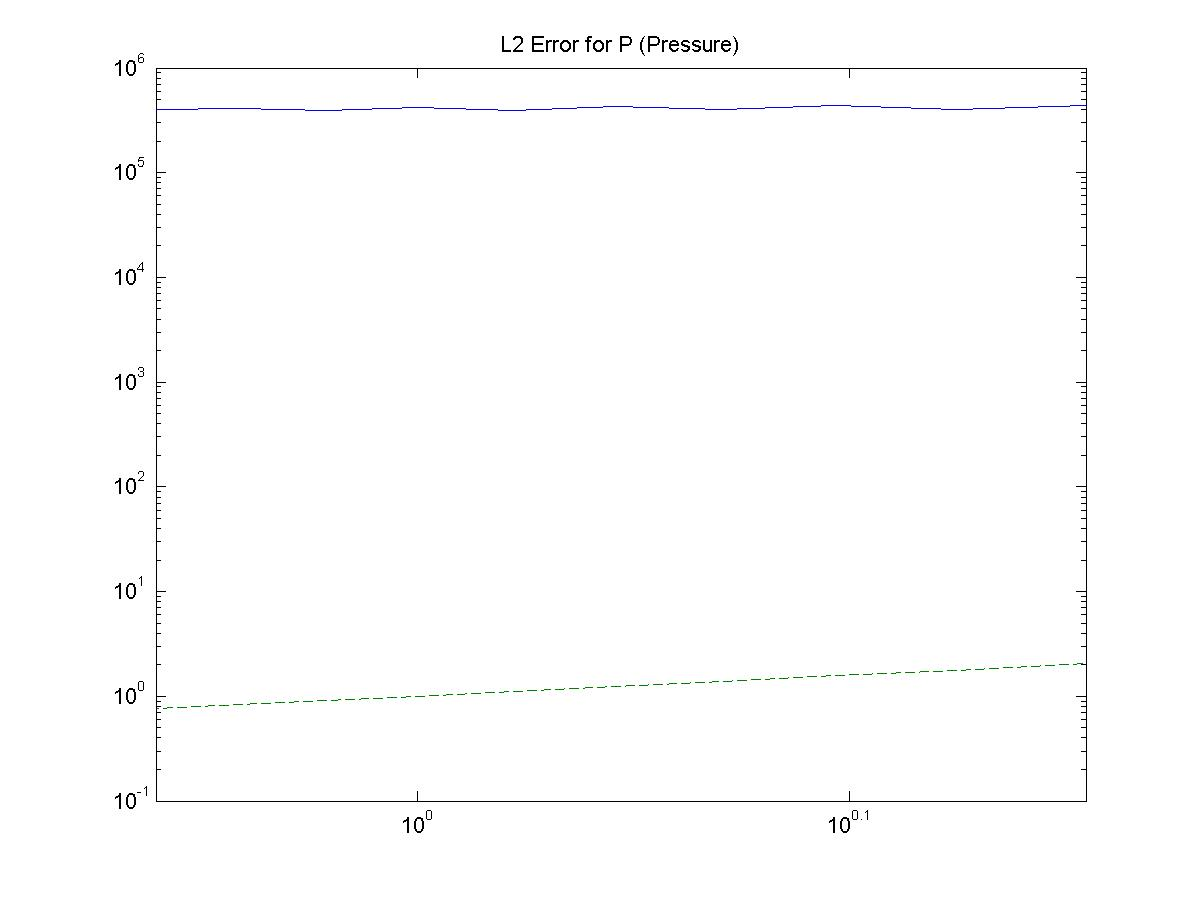
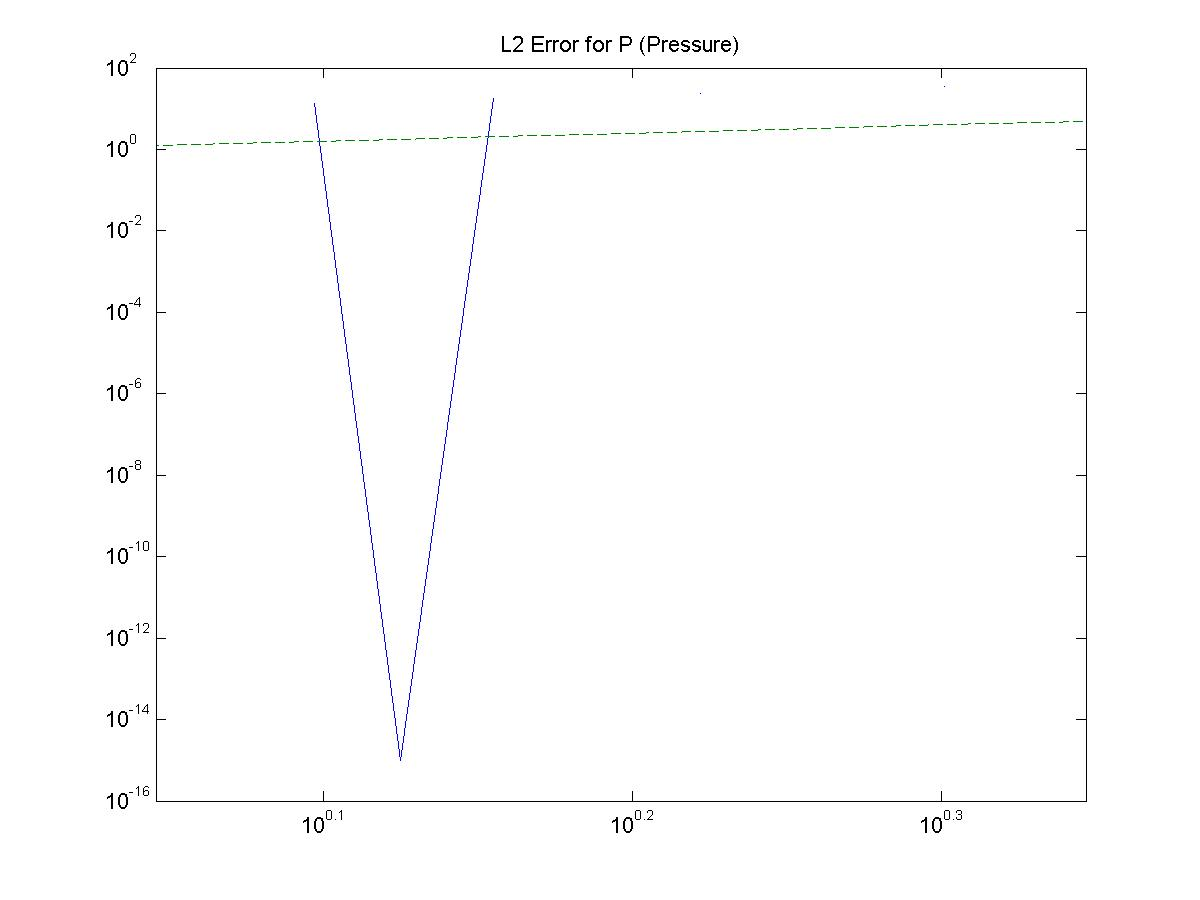
1/21
Applied BC's on u by mirroring with u*.  Changed the forcing function.

diff --git a/Main.m b/Main.m
@@ -3,10 +3,8 @@ close all;
 clc;
 
 animate = 1;
+checkL2E = 0;
 
-%2D Stokes
-
-%%%%%%%%%%%%%%%%%%%%%%%%%%%%%%%%%%%%%%%%%%%%%%%%%%%%%%%%%%%%%%%%%%%%%%%%%%
 %Pressure Differential (Right side)
 p0 = 0;
 
@@ -18,22 +16,38 @@ g = 0;
 
 height = 20;
 width = 20;
-R = .4;
-L = 1;
+R = 2;
+L = 10;
 %T = .25;
 timeSteps = 5;
+
+quivRes = 1;
 %%%%%%%%%%%%%%%%%%%%%%%%%%%%%%%%%%%%%%%%%%%%%%%%%%%%%%%%%%%%%%%%%%%%%%%%%%
 
 
 %%%%%%%%%%%%%%%%%%%%%%%%%%%%%%%%%%%%%%%%%%%%%%%%%%%%%%%%%%%%%%%%%%%%%%%%%%
-%Compute Stokes2DGStar with a high discretization and use it as the "analytical" solution
+%Compute Stokes2DPCwith a high discretization and use it as the "analytical" solution
 %%%%%%%%%%%%%%%%%%%%%%%%%%%%%%%%%%%%%%%%%%%%%%%%%%%%%%%%%%%%%%%%%%%%%%%%%%
-num = 50;
+num = 40;
 tic;
 [P U V X Y NUMXCELLS NUMYCELLS] = Stokes2DPC(g, num, p0, mu, height, width, R,L, timeSteps, 0);
 toc;
 
-quivRes = 1;
+% i=2;
+% figure(6);
+% hold on;
+% quiver(X(1:quivRes:end,1:quivRes:end),Y(1:quivRes:end,1:quivRes:end),U(1:quivRes:end,1:quivRes:end, i),V(1:quivRes:end,1:quivRes:end, i));
+% z = (X - (R + L)).^2 + Y.^2 - R^2;
+% contour(X,Y,z,[0,0]);
+% streamline(X,Y,U(:,:,i),V(:,:,i),.1,1);
+% streamline(X,Y,U(:,:,i),V(:,:,i),.1,-1);
+% % streamline(X,Y,U,V,-width / 2, 0.1);
+% % streamline(X,Y,U,V,-width / 2, -0.1);
+% drawnow;
+% hold off;
+
+
+%surf(X,Y,U(:,:,2));
 
 %pcolor?
 %shading interp
@@ -50,8 +64,8 @@ if(animate == 1)
         z = (X - (R + L)).^2 + Y.^2 - R^2;
         contour(X,Y,z,[0,0]);
 
-        streamline(X,Y,U(:,:,i),V(:,:,i),.1,.1);
-        streamline(X,Y,U(:,:,i),V(:,:,i),.1,-.1);
+        streamline(X,Y,U(:,:,i),V(:,:,i),.1,1);
+        streamline(X,Y,U(:,:,i),V(:,:,i),.1,-1);
         % streamline(X,Y,U,V,-width / 2, 0.1);
         % streamline(X,Y,U,V,-width / 2, -0.1);
         drawnow;
@@ -61,66 +75,67 @@ if(animate == 1)
 end
 
 
-%Compute the L2E with 20 different grid spacing values
-testPoints = (num/2 - 10): (num/2);
+if checkL2E
 
-L2EP = zeros(testPoints(end),1);
-L2EU = zeros(testPoints(end),1);
-L2EV = zeros(testPoints(end),1);
-dx = zeros(testPoints(end),1);
+    %Compute the L2E with 20 different grid spacing values
+    testPoints = (num/2 - 10): (num/2);
 
-% Compute the L2 error
-%2D: || u(x,y) || = sqrt( 1/M^2 sum_{j=1}^M sum_{k=1]^M u_{j,k}^2 }
-for i = 1:10
-    testPoints(i)
-    tic;
-    [ p u v x y numXCells numYCells dx(i)] = Stokes2DPC(g, testPoints(i), p0, mu, height, width, R, L, timeSteps, 0);
-    toc;
-    
-    %d(i) = (1-0) / (i - 1);
-    
-    for j=1:numXCells
-        for k = 1:numYCells
-            % interp2(X,Y,F,x,y) interpolates F(X,Y) at x,y
-            % Don't Want:  X is numx1 vector, Y is a numx1, P is a num^2x1 vector
-            % Want: X is numxnum array, Y is numxnum array, P is a numxnum array
-            L2EP(i) = L2EP(i) + (p(k,j,timeSteps) - interp2(X,Y,P(:,:,timeSteps),x(k,j),y(k,j), 'cubic'))^2;
-            L2EU(i) = L2EU(i) + (u(k,j,timeSteps) - interp2(X,Y,U(:,:,timeSteps),x(k,j),y(k,j), 'cubic'))^2;
-            L2EV(i) = L2EV(i) + (v(k,j,timeSteps) - interp2(X,Y,V(:,:,timeSteps),x(k,j),y(k,j), 'cubic'))^2;
-        end
-    end   
-    L2EP(i) = sqrt(L2EP(i) / (numXCells * numYCells));
-    L2EU(i) = sqrt(L2EU(i) / (numXCells * numYCells));
-    L2EV(i) = sqrt(L2EV(i) / (numXCells * numYCells));
-    
-    
+    L2EP = zeros(testPoints(end),1);
+    L2EU = zeros(testPoints(end),1);
+    L2EV = zeros(testPoints(end),1);
+    dx = zeros(testPoints(end),1);
+
+    % Compute the L2 error
+    %2D: || u(x,y) || = sqrt( 1/M^2 sum_{j=1}^M sum_{k=1]^M u_{j,k}^2 }
+    for i = 1:10
+        testPoints(i)
+        tic;
+        [ p u v x y numXCells numYCells dx(i)] = Stokes2DPC(g, testPoints(i), p0, mu, height, width, R, L, timeSteps, 0);
+        toc;
+
+        %d(i) = (1-0) / (i - 1);
+
+        for j=1:numXCells
+            for k = 1:numYCells
+                % interp2(X,Y,F,x,y) interpolates F(X,Y) at x,y
+                % Don't Want:  X is numx1 vector, Y is a numx1, P is a num^2x1 vector
+                % Want: X is numxnum array, Y is numxnum array, P is a numxnum array
+                L2EP(i) = L2EP(i) + (p(k,j,timeSteps) - interp2(X,Y,P(:,:,timeSteps),x(k,j),y(k,j), 'cubic'))^2;
+                L2EU(i) = L2EU(i) + (u(k,j,timeSteps) - interp2(X,Y,U(:,:,timeSteps),x(k,j),y(k,j), 'cubic'))^2;
+                L2EV(i) = L2EV(i) + (v(k,j,timeSteps) - interp2(X,Y,V(:,:,timeSteps),x(k,j),y(k,j), 'cubic'))^2;
+            end
+        end   
+        L2EP(i) = sqrt(L2EP(i) / (numXCells * numYCells));
+        L2EU(i) = sqrt(L2EU(i) / (numXCells * numYCells));
+        L2EV(i) = sqrt(L2EV(i) / (numXCells * numYCells));
+    end
+
+    figure(2);
+    surf(x,y, p(:,:,timeSteps) - interp2(X,Y,P(:,:,timeSteps),x,y));
+    title('Localized Error for P (Pressure)');
+    print('LocalPError', '-djpeg');
+
+    % dx = dx(testPoints);
+    % L2EP = L2EP(testPoints);
+    % L2EU = L2EU(testPoints);
+    % L2EV = L2EV(testPoints);
+
+    save('data.mat','dx','L2EP','L2EU','L2EV');
+    figure(3)
+    loglog(dx,L2EP,'-',dx,dx.^2,'--');
+    title('L2 Error for P (Pressure)');
+    print('_L2EP', '-djpeg');
+
+    %loglog(d,L2EP,'-',d,L2EP(1)-d(1) + d,'r--',d,L2EP(1)-d(1)^2 + d.^2,'g--');
+    %title('L2 Error for P (Pressure)');
+
+    figure(4)
+    loglog(dx,L2EU,'-',dx,dx.^2,'--');
+    title('L2 Error for U (Horizontal Velocity)');
+    print('_L2EU', '-djpeg');
+
+    figure(5)
+    loglog(dx,L2EV,'-',dx,dx.^2,'--');
+    title('L2 Error for V (Vertical Velocity)');
+    print('_L2EV', '-djpeg');
 end
-
-figure(2);
-surf(x,y, p(:,:,timeSteps) - interp2(X,Y,P(:,:,timeSteps),x,y));
-title('Localized Error for P (Pressure)');
-print('LocalPError', '-djpeg');
-
-% dx = dx(testPoints);
-% L2EP = L2EP(testPoints);
-% L2EU = L2EU(testPoints);
-% L2EV = L2EV(testPoints);
-
-save('data.mat','dx','L2EP','L2EU','L2EV');
-figure(3)
-loglog(dx,L2EP,'-',dx,dx.^2,'--');
-title('L2 Error for P (Pressure)');
-print('_L2EP', '-djpeg');
-
-%loglog(d,L2EP,'-',d,L2EP(1)-d(1) + d,'r--',d,L2EP(1)-d(1)^2 + d.^2,'g--');
-%title('L2 Error for P (Pressure)');
-
-figure(4)
-loglog(dx,L2EU,'-',dx,dx.^2,'--');
-title('L2 Error for U (Horizontal Velocity)');
-print('_L2EU', '-djpeg');
-
-figure(5)
-loglog(dx,L2EV,'-',dx,dx.^2,'--');
-title('L2 Error for V (Vertical Velocity)');
-print('_L2EV', '-djpeg');

diff --git a/Stokes2DPC.m b/Stokes2DPC.m
@@ -21,6 +21,11 @@ end
 
 [F1 F2] = force(X, Y, mu, width, p0, g, R, dx, L);
 
+figure(99);
+surf(X,Y,F1);
+figure(100);
+surf(X,Y,F2);
+
 P = zeros(numYCells, numXCells, numTimeSteps);
 U = zeros(numYCells, numXCells, numTimeSteps);
 V = zeros(numYCells, numXCells, numTimeSteps);
@@ -45,6 +50,7 @@ for t = 1:numTimeSteps  %This loop will surround the entire algoritm
     %%%%%%%%%%%%%%%%%%%%%%%%%%%Step 1 of algorithm%%%%%%%%%%%%%%%%%%%%%%%%%
     %Question:  Assume small strain tensor is symmetric, so transpose goes away?
     %Random Question:  Do they ever use FFT to solve these?
+    
     %u_star = u + mu*(uxx + uyy) + F1
     %v_star = v + mu*(vxx + vyy) + F2
     
@@ -55,31 +61,32 @@ for t = 1:numTimeSteps  %This loop will surround the entire algoritm
         end
     end
     
+    %Set the boundary condition for u_star to be the same as u
+    
     %Left edge, excluding corners, use forward difference for uxx and vxx
     %Right edge, excluding corners, use backward difference for uxx and vxx
-    for j = 2:numYCells-1
+    for j = 1:numYCells
         i = 1;
-        u_star(ind(i,j),t) = u(ind(i,j),t) + (1/(dx^3)) * mu * (2*u(ind(i,j),t) - 5*u(ind(i+1,j),t) + 4*u(ind(i+2,j),t) - u(ind(i+3,j),t)) + (1/(dx^2)) * mu * (u(ind(i,j+1),t) - 2*u(ind(i,j),t) + u(ind(i,j-1),t)) + F1(i,j);
-        v_star(ind(i,j),t) = v(ind(i,j),t) + (1/(dx^3)) * mu * (2*v(ind(i,j),t) - 5*v(ind(i+1,j),t) + 4*v(ind(i+2,j),t) - v(ind(i+3,j),t)) + (1/(dx^2)) * mu * (v(ind(i,j+1),t) - 2*v(ind(i,j),t) + v(ind(i,j-1),t)) + F2(i,j);
+        u_star(ind(i,j),t) = 1;
+        v_star(ind(i,j),t) = 0;
         
         i = numXCells;
-        u_star(ind(i,j), t) = u(ind(i,j), t) + (1/(dx^3)) * mu * (2*u(ind(i,j),t) - 5*u(ind(i-1,j),t) + 4*u(ind(i-2,j),t) - u(ind(i-3,j),t)) + (1/(dx^2)) * mu * (u(ind(i,j+1),t) - 2*u(ind(i,j),t) + u(ind(i,j-1),t)) + F1(i,j);
-        v_star(ind(i,j), t) = v(ind(i,j), t) + (1/(dx^3)) * mu * (2*v(ind(i,j),t) - 5*v(ind(i-1,j),t) + 4*v(ind(i-2,j),t) - v(ind(i-3,j),t)) + (1/(dx^2)) * mu * (v(ind(i,j+1),t) - 2*v(ind(i,j),t) + v(ind(i,j-1),t)) + F2(i,j);
+        u_star(ind(i,j), t) = 1;
+        v_star(ind(i,j), t) = 0;
     end
     
     %Bottom edge, excluding corners, use forward difference for uyy and vyy
     %Top edge, excluding corners, use backward difference for uyy and vyy
     for i = 2:numXCells-1
         j = 1;
-        u_star(ind(i,j),t) = u(ind(i,j),t) + (1/(dx^3)) * mu * (2*u(ind(i,j),t) - 5*u(ind(i,j+1),t) + 4*u(ind(i,j+2),t) - u(ind(i,j+3),t)) + (1/(dx^2)) * mu * (u(ind(i+1,j),t) - 2*u(ind(i,j),t) + u(ind(i-1,j),t)) + F1(i,j);
-        v_star(ind(i,j),t) = v(ind(i,j),t) + (1/(dx^3)) * mu * (2*v(ind(i,j),t) - 5*v(ind(i,j+1),t) + 4*v(ind(i,j+2),t) - v(ind(i,j+3),t)) + (1/(dx^2)) * mu * (v(ind(i+1,j),t) - 2*v(ind(i,j),t) + v(ind(i-1,j),t)) + F1(i,j);
+        %Want uy = 0
+        u_star(ind(i,j),t) = u_star(ind(i,j+1),t);
+        v_star(ind(i,j),t) = 0;
         
         j = numYCells;
-        u_star(ind(i,j),t) = u(ind(i,j),t) + (1/(dx^3)) * mu * (2*u(ind(i,j),t) - 5*u(ind(i,j-1),t) + 4*u(ind(i,j-2),t) - u(ind(i,j-3),t)) + (1/(dx^2)) * mu * (u(ind(i+1,j),t) - 2*u(ind(i,j),t) + u(ind(i-1,j),t)) + F1(i,j);
-        v_star(ind(i,j),t) = v(ind(i,j),t) + (1/(dx^3)) * mu * (2*v(ind(i,j),t) - 5*v(ind(i,j-1),t) + 4*v(ind(i,j-2),t) - v(ind(i,j-3),t)) + (1/(dx^2)) * mu * (v(ind(i+1,j),t) - 2*v(ind(i,j),t) + v(ind(i-1,j),t)) + F1(i,j);
+        u_star(ind(i,j),t) = u_star(ind(i,j-1),t);
+        v_star(ind(i,j),t) = 0;
     end
-
-    %%%%%%%%%***Ignore the corners for now***%%%%%%%%%%%
     
     %%%%%%%%%%%%%%%%%%%%%%%%%%%Step 2 of algorithm%%%%%%%%%%%%%%%%%%%%%%%%%
     
@@ -148,16 +155,34 @@ for t = 1:numTimeSteps  %This loop will surround the entire algoritm
     %%%%%%%%%%%%%%%%%%%%%%%%%%%Step 3 of algorithm%%%%%%%%%%%%%%%%%%%%%%%%%
     %u_next = u_star - grad(p) 
     
-    %Question:  Where should I enforce free slip (uy = 0 on top/bottom)?
-    
     if t ~= numTimeSteps
      
-        for i=2:numXCells-1
-            for j=2:numYCells-1 
-                u(ind(i,j),t+1) = u_star(ind(i,j),t) - (1/(2*dx)) * (p(ind(i+1,j),t) - p(ind(i-1,j),t));
-                v(ind(i,j),t+1) = v_star(ind(i,j),t) - (1/(2*dx)) * (p(ind(i,j+1),t) - p(ind(i,j-1),t));
-            end
-        end
+        for i=1:numXCells
+            for j=1:numYCells 
+
+                if j==1
+                    v(ind(i,j),t+1) = v_star(ind(i,j),t) - (1/(dx)) * (p(ind(i,j+1),t) - p(ind(i,j),t));
+                    %v(ind(i,j),t+1) = 0;
+                elseif j==numYCells
+                    v(ind(i,j),t+1) = v_star(ind(i,j),t) - (1/(dx)) * (p(ind(i,j),t) - p(ind(i,j-1),t));
+                    %v(ind(i,j),t+1) = 0;
+                else
+                    v(ind(i,j),t+1) = v_star(ind(i,j),t) - (1/(2*dx)) * (p(ind(i,j+1),t) - p(ind(i,j-1),t));
+                end
+                
+                if i==1 
+                    u(ind(i,j),t+1) = u_star(ind(i,j),t) - (1/(dx)) * (p(ind(i+1,j),t) - p(ind(i,j),t));
+                    %v(ind(i,j),t+1) = 0;
+                elseif i==numXCells
+                    u(ind(i,j),t+1) = u_star(ind(i,j),t) - (1/(dx)) * (p(ind(i,j),t) - p(ind(i-1,j),t));
+                    %v(ind(i,j),t+1) = 0;
+                else
+                    u(ind(i,j),t+1) = u_star(ind(i,j),t) - (1/(2*dx)) * (p(ind(i+1,j),t) - p(ind(i-1,j),t));
+                end
+                       
+                
+            end    
+        end        
     end
     
     tmp1 = p(:, t);

diff --git a/force.m b/force.m
@@ -11,17 +11,22 @@ id2 = theta > (-pi / 2) & theta < (pi / 2);
 alpha(id2) = 0;
 
 %E = 2 * dx;
-E = 2 * .125;
+%E = 2 * .125;
+E = .25 * R;
+
 %z = x.^2 + y.^2 - R^2;
-z = (x - (R + L)).^2 + y.^2 - R^2;
+z = sqrt((x - (R + L)).^2 + y.^2) - R;
 
 id1 = (z > -E) & (z < E);
 
 delta = zeros(size(x));
 delta (id1) = (1 + cos((pi * z(id1) / E))) / (2 * E);
 
-f1 = alpha .* delta .* (2*(x - (R+L)));
-f2 = alpha .* delta .* (2*y);
+f1 = delta .* cos(theta);
+f2 = delta .* sin(theta);
+
+% f1 = alpha .* delta .* (2*(x - (R+L)));
+% f2 = alpha .* delta .* (2*y);
 
 f1 = f1';
 f2 = f2';
